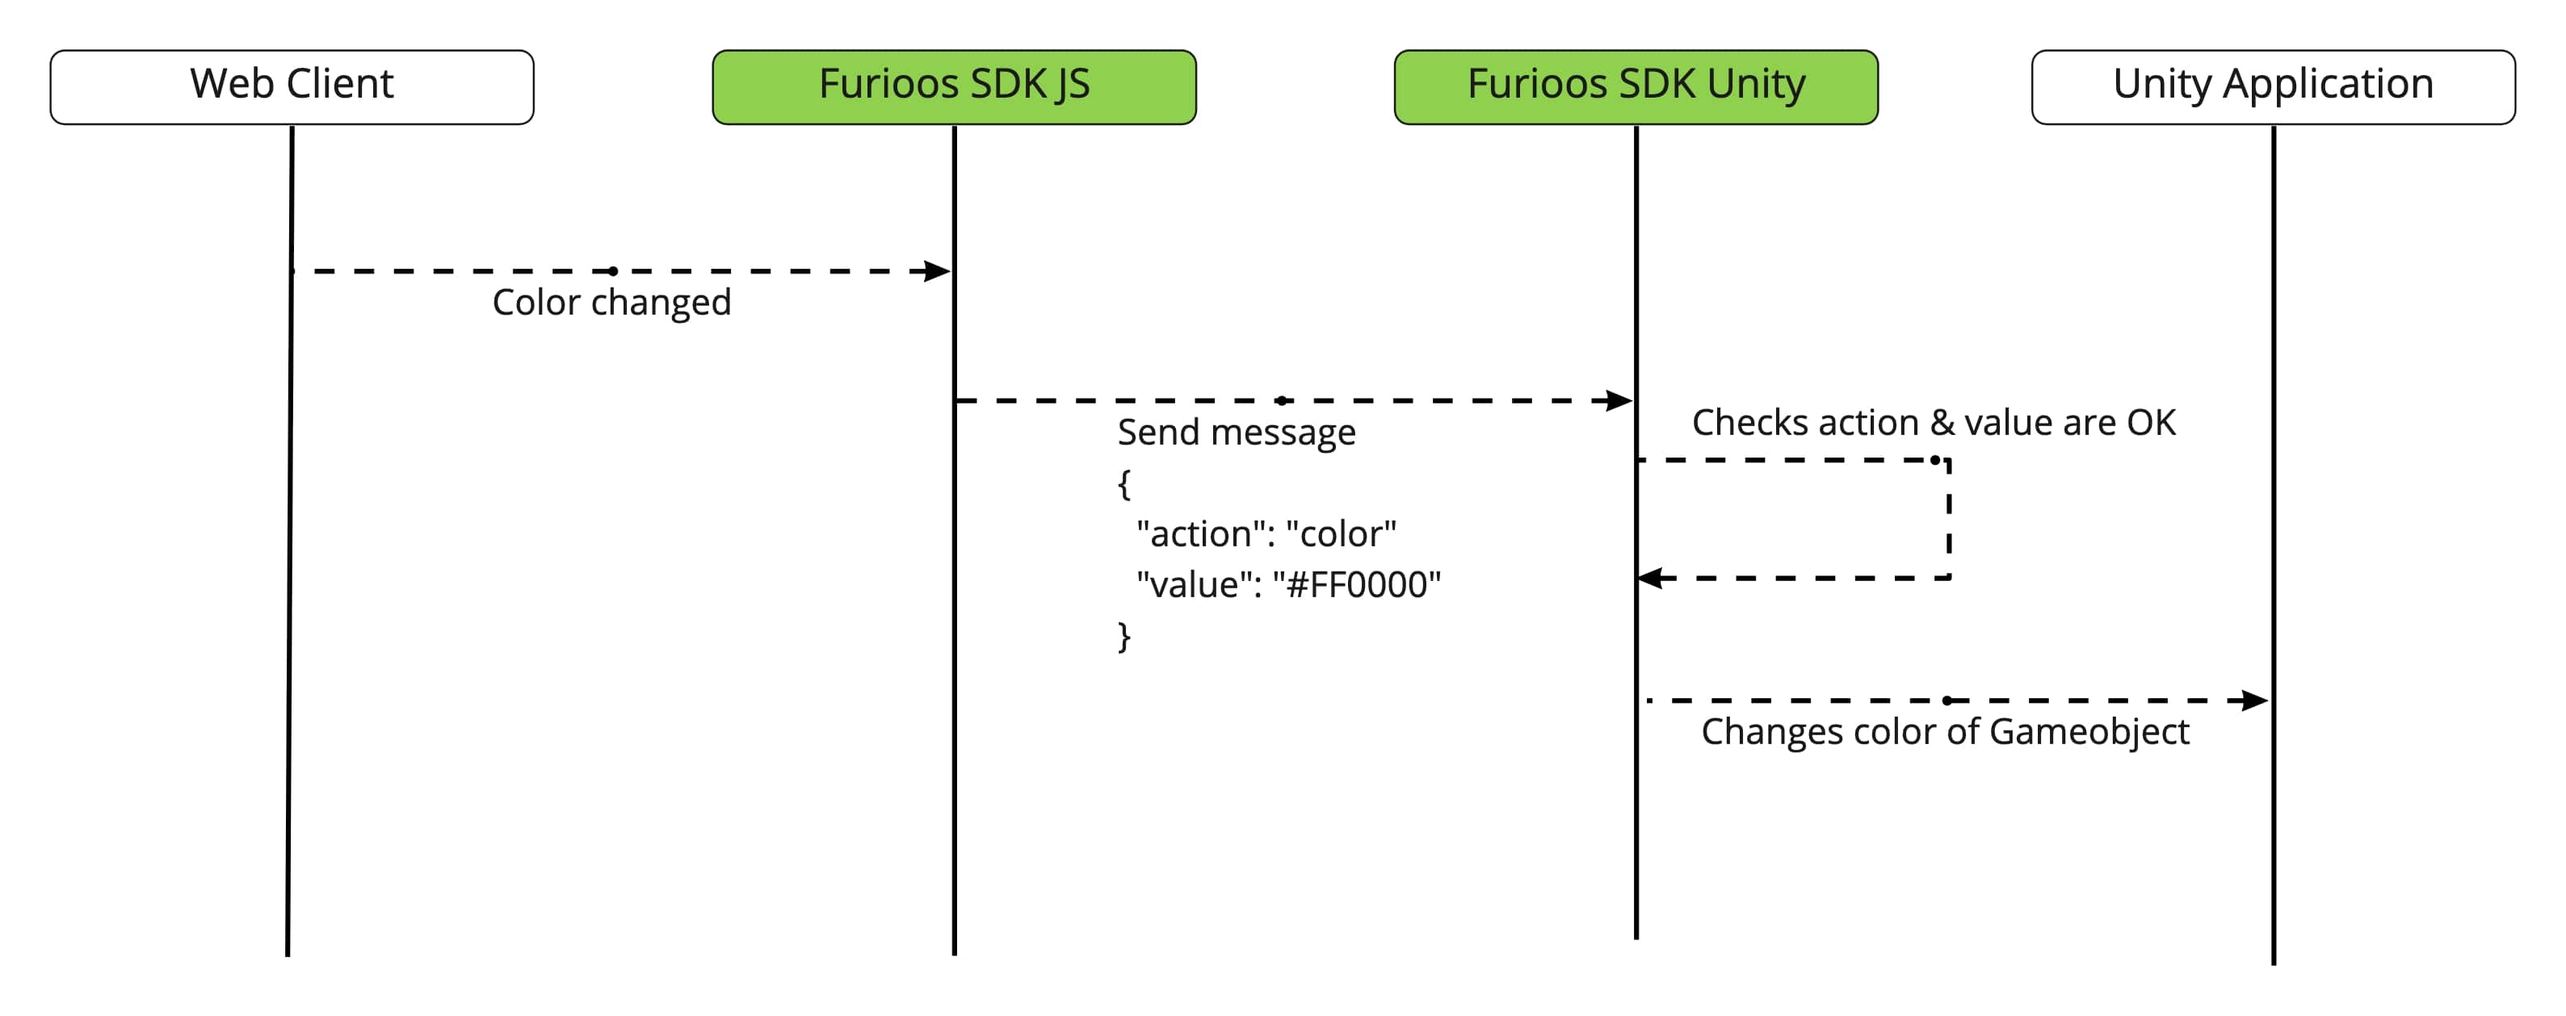
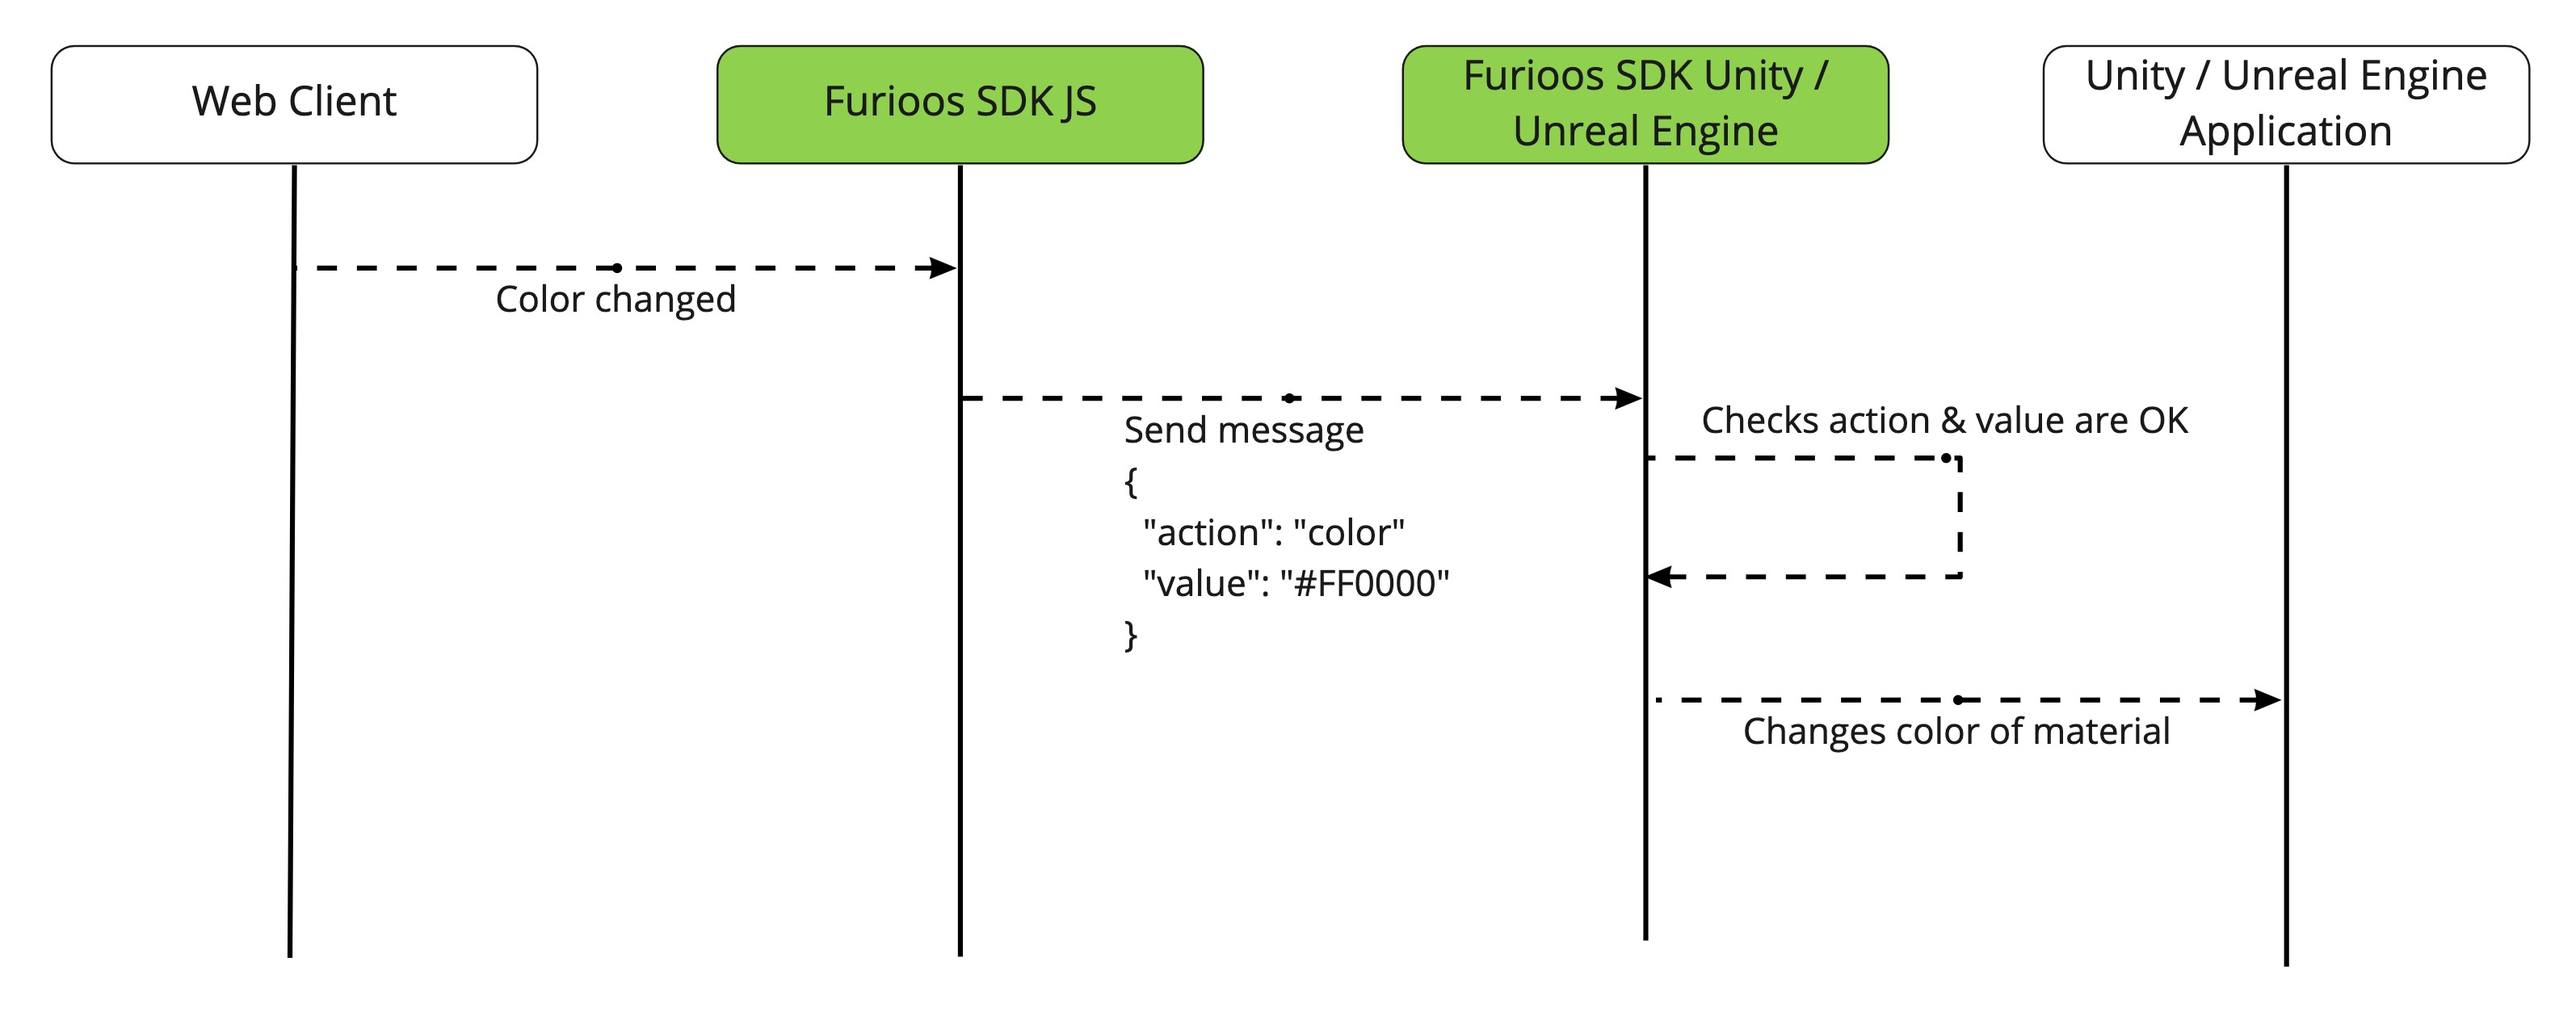
fix: update img

diff --git a/README.md b/README.md
@@ -34,7 +34,7 @@ The Furioos SDK allows you to:
 <img src=".docs/assets/sdk-ui-example.png" width="600">
 
 ## How it works ?
-For example if you want to create a way to change the color of a GameObject using a color picker on your website <br/>
+For example if you want to create a way to change the color of a Material using a color picker on your website <br/>
 <br/>
 <img src=".docs/assets/SDK Example 1.jpg">
 
@@ -42,7 +42,7 @@ For example if you want to create a way to change the color of a GameObject usin
 - The Unity/Unreal Engine application receives the message
 - Parse the message in your script and identify the action "Change color"
 - Check the color value
-- Changes the GameObject material color
+- Changes the Material color
 
 You can find a full Unity demo project here: <br/>
 You can find a full Unreal Engine demo project here: 
